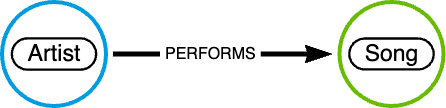
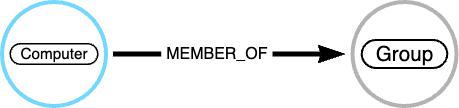
Extended code description

Changed region(s): [[0.6704, 0.0, 1.0, 1.0], [0.0, 0.0, 0.2623, 1.0], [0.3498, 0.4167, 0.6121, 0.5833]]

diff --git a/3 - Create the GraphRAG Chatbot.py b/3 - Create the GraphRAG Chatbot.py
@@ -2,7 +2,6 @@
 # MAGIC %md
 # MAGIC # Create the GraphRAG chatbot with Langchain and Neo4j
 # MAGIC
-# MAGIC You can test the behaviour of the chatbot with whatever LLM.
 
 # COMMAND ----------
 
@@ -61,6 +60,15 @@ import mlflow
 
 # COMMAND ----------
 
+# MAGIC %md
+# MAGIC ## The importance of MLflow
+# MAGIC
+# MAGIC MLflow plays a key role in tracking and debugging the GraphCypherQAChain workflow. It lets you monitor model versioning, performance metrics, and artifacts, making deployment seamless and transparent. With MLflow, you can easily trace and optimize the outputs of the LLMs within its interface.
+# MAGIC
+# MAGIC
+
+# COMMAND ----------
+
 mlflow.langchain.autolog()
 
 # COMMAND ----------
@@ -76,11 +84,14 @@ graph = Neo4jGraph(
 # MAGIC %md
 # MAGIC # Define the LLMs
 # MAGIC
-# MAGIC We are speak prular as we use two different LLMs: 
+# MAGIC We are speaking prular as we use two different LLMs: 
 # MAGIC -  the one stored in the variable `qa_llm`, is for managing the Q&A part
 # MAGIC - the one stored in the variable `cypher_llm` is for managing the Text-2-Cypher conversion
 # MAGIC
 # MAGIC Each LLM has its own prompt as they're serving for different purposes.
+# MAGIC
+# MAGIC
+# MAGIC
 
 # COMMAND ----------
 
@@ -130,6 +141,21 @@ print(cypher_prompt)
 
 # COMMAND ----------
 
+# MAGIC %md
+# MAGIC ## Create and Test GraphRAG Chain
+# MAGIC Now that we have defined our pretrained LLM and fine-tuned text2cypher model, and our data is loaded into the Neo4j graph database, we can then work on defining our agent. Details can be found in notebook.
+# MAGIC
+
+# COMMAND ----------
+
+# MAGIC %md
+# MAGIC ## Naive Chain
+# MAGIC The Naive Chain approach involves using a pretrain LLM for both Cypher query generation and answer summarization, without the aid of advanced prompts or configurations. In this setup, GPT-4.0 is utilized as the primary model, where it takes in a user query, interprets it, generates the Cypher query, executes it against the Neo4j database, and finally summarizes the results. While this approach is straightforward, it may not fully leverage the flexibility and performance offered by using separate LLMs or more detailed prompts.
+# MAGIC
+# MAGIC An example code and results to use GPT-4.0 for this naive chain would look as follows:
+
+# COMMAND ----------
+
 # Create a GraphCypherQAChain instance using a language model from Databricks and the Neo4j graph
 chain = GraphCypherQAChain.from_llm(
     # Pass the language model for the Q&A part
@@ -156,6 +182,13 @@ chain = GraphCypherQAChain.from_llm(
 
 # Log the GraphCypherQAChain instance as an MLflow model
 mlflow.models.set_model(model=chain)
+
+# COMMAND ----------
+
+# MAGIC %md
+# MAGIC ## Log the chain
+# MAGIC
+# MAGIC Once the GraphRAG chain is logged, you can use chain.invoke() to pass a natural language query into the `GraphCypherQAChain`. The output includes the Cypher query and summarized response, enabling you to identify issues like query inaccuracies or misinterpretations. Testing the GraphRAG system in Databricks notebooks with MLflow tracing helps iteratively improve accuracy and reliability, ensuring it meets complex use cases like cybersecurity analysis or large-scale graph data retrieval.
 
 # COMMAND ----------
 

diff --git a/2 - Import the data from the UC into Neo4j.py b/2 - Import the data from the UC into Neo4j.py
@@ -1,16 +1,18 @@
 # Databricks notebook source
 # MAGIC %md
-# MAGIC # From Unity Catalog to Neo4j
+# MAGIC # Building a Knowledge Graph from Delta Tables
 # MAGIC
-# MAGIC In this notebook we'll see how to convert UC's Delta tables into node/relationships stored in Neo4j.
+# MAGIC Before building the agent, we need to set up the graph database. To implement the knowledge graphs (KG) for our graph database, it's essential to first consider the nature of the source data. The key question here is: "Is the data structured or unstructured?" 
+# MAGIC This post focuses largely on building a KG with structured data, however, if your data is unstructured, there’s generally much more work involved to build a KG. Generally, one can use LLMs to extract structured information from unstructured content, being thoughtful about how best to extract and represent entities, attributes, and relationships in that data. More advanced approaches involve multi-step methods, including [this approach from Microsoft Research](https://arxiv.org/abs/2404.16130), but this remains, as of early 2025, an area of active research. 
+# MAGIC For structured data, a useful starting point is to leverage the structural dependencies already present in your Lakehouse’s silver tables; these tables are typically defined with constraints like foreign keys. 
 # MAGIC
-# MAGIC For structured data, a useful starting point is to leverage the structural dependencies already present in your lakehouse's silver tables; these tables are typically defined with constraints like **foreign keys**. 
+# MAGIC For structured data, a useful starting point is to leverage the structural dependencies already present in your lakehouse's silver tables; these tables are typically defined with constraints like **foreign keys**.
 # MAGIC
-# MAGIC A simple example would be an Entity-Relationship (ER) diagram consisting of two tables, artist and song, and a join table, performs.
+# MAGIC A simple example would be the following E-R diagram of the BloodHound example
 # MAGIC
 # MAGIC <img src="images/er-model.png">
 # MAGIC
-# MAGIC The corresponding graph model would be relatively straightforward: two nodes (`Artist` and `Song`) connected by the relationship `PERFORMS`:
+# MAGIC which describes computers that are members of active directory groups and that can be translated in the following graph structure:
 # MAGIC
 # MAGIC <img src="images/er-to-graph-model.png">
 # MAGIC

diff --git a/3.1 - Provisioned Throughput text2cypher serving example.py b/3.1 - Provisioned Throughput text2cypher serving example.py
@@ -1,6 +1,9 @@
 # Databricks notebook source
 # MAGIC %md
-# MAGIC # Provisioned Throughput text2cypher serving example
+# MAGIC # Provisioned Throughput Text2Cypher serving example
+# MAGIC
+# MAGIC Pretrained LLMs power GraphRAG agents by handling Cypher query generation and natural language responses. They transform natural language into structured Cypher queries and interpret results into user-friendly answers. On Databricks, models like GPT-4.0o and Llama 3 can be integrated and served efficiently with [Mosaic AI Model Serving](https://docs.databricks.com/en/machine-learning/model-serving/index.html#mosaic-ai-model-serving), enabling scalable, reproducible deployments. Below are code snippets to set up these models, allowing easy experimentation and comparison to find the best solution for your application.
+# MAGIC
 # MAGIC
 # MAGIC Provisioned Throughput provides optimized inference for Foundation Models with performance guarantees for production workloads. Currently, Databricks supports optimizations for Llama3.x, Mosaic MPT, and Mistral class of models.
 # MAGIC
@@ -40,6 +43,21 @@
 # COMMAND ----------
 
 dbutils.library.restartPython()
+
+# COMMAND ----------
+
+# MAGIC %md
+# MAGIC ## Text2Cypher model from HuggingFace
+# MAGIC General purpose LLMs often prove limited in certain specialty, so using a fine-tuned model for translating text to cypher leads to much better performance in practice. In this case, we’ll deploy a lightweight text2cypher model, fine-tuned based on the Llama 3 8B model. It is open-sourced on Hugging Face.
+# MAGIC
+# MAGIC In our code demo, the deployment of the text2cypher model is managed in the notebook “3.1 - Provisioned Throughput text2cypher serving example”, which:
+# MAGIC
+# MAGIC * Downloads the model from Hugging Face
+# MAGIC * Logs the model in Unity Catalog
+# MAGIC * Deploys a provisioned throughput model serving endpoint
+# MAGIC
+# MAGIC Once your endpoint is ready, you can query it by making an API request or testing it directly in the UI for seamless interaction. Deployment time may vary depending on the model's size and complexity. For instance, deploying the 8B text2cypher model was remarkably efficient, taking only 1 minute to complete. Further examples can be found [here](https://docs.databricks.com/en/machine-learning/foundation-model-apis/deploy-prov-throughput-foundation-model-apis.html#notebook-examples). 
+# MAGIC
 
 # COMMAND ----------
 

diff --git a/4 - Register the GraphRAG app.py b/4 - Register the GraphRAG app.py
@@ -1,6 +1,15 @@
 # Databricks notebook source
 # MAGIC %md
 # MAGIC # Track, serve and monitor the GraphRAG app via the Mosaic AI framework
+# MAGIC
+# MAGIC **Mosaic AI Agent Framework** and **MLflow** provide tools to help you author enterprise-ready agents in Python. Databricks supports authoring agents using third-party agent authoring libraries like LangChain, LlamaIndex, or custom Python implementations.
+# MAGIC In this notebook we will will:
+# MAGIC
+# MAGIC * Log the GraphRAG model
+# MAGIC * Register it in Unity Catalog
+# MAGIC * Deploy it to a serving endpoint
+# MAGIC * Deploy the review app so you can test it and review the answers
+# MAGIC
 
 # COMMAND ----------
 
@@ -119,3 +128,15 @@ We have considered below sample objects for this use case.
 ![Graph Model](https://guides.neo4j.com/sandbox/cybersecurity/img/model.svg)
 """
 agents.set_review_instructions(UC_MODEL_NAME, instructions_to_reviewer)
+
+# COMMAND ----------
+
+# MAGIC %md
+# MAGIC ## Example of the review app
+# MAGIC The expected view from the review app should be like the following:
+# MAGIC
+# MAGIC <img src="images/review-app-intro.png">
+# MAGIC
+# MAGIC and
+# MAGIC
+# MAGIC <img src="images/review-app-example.png">
